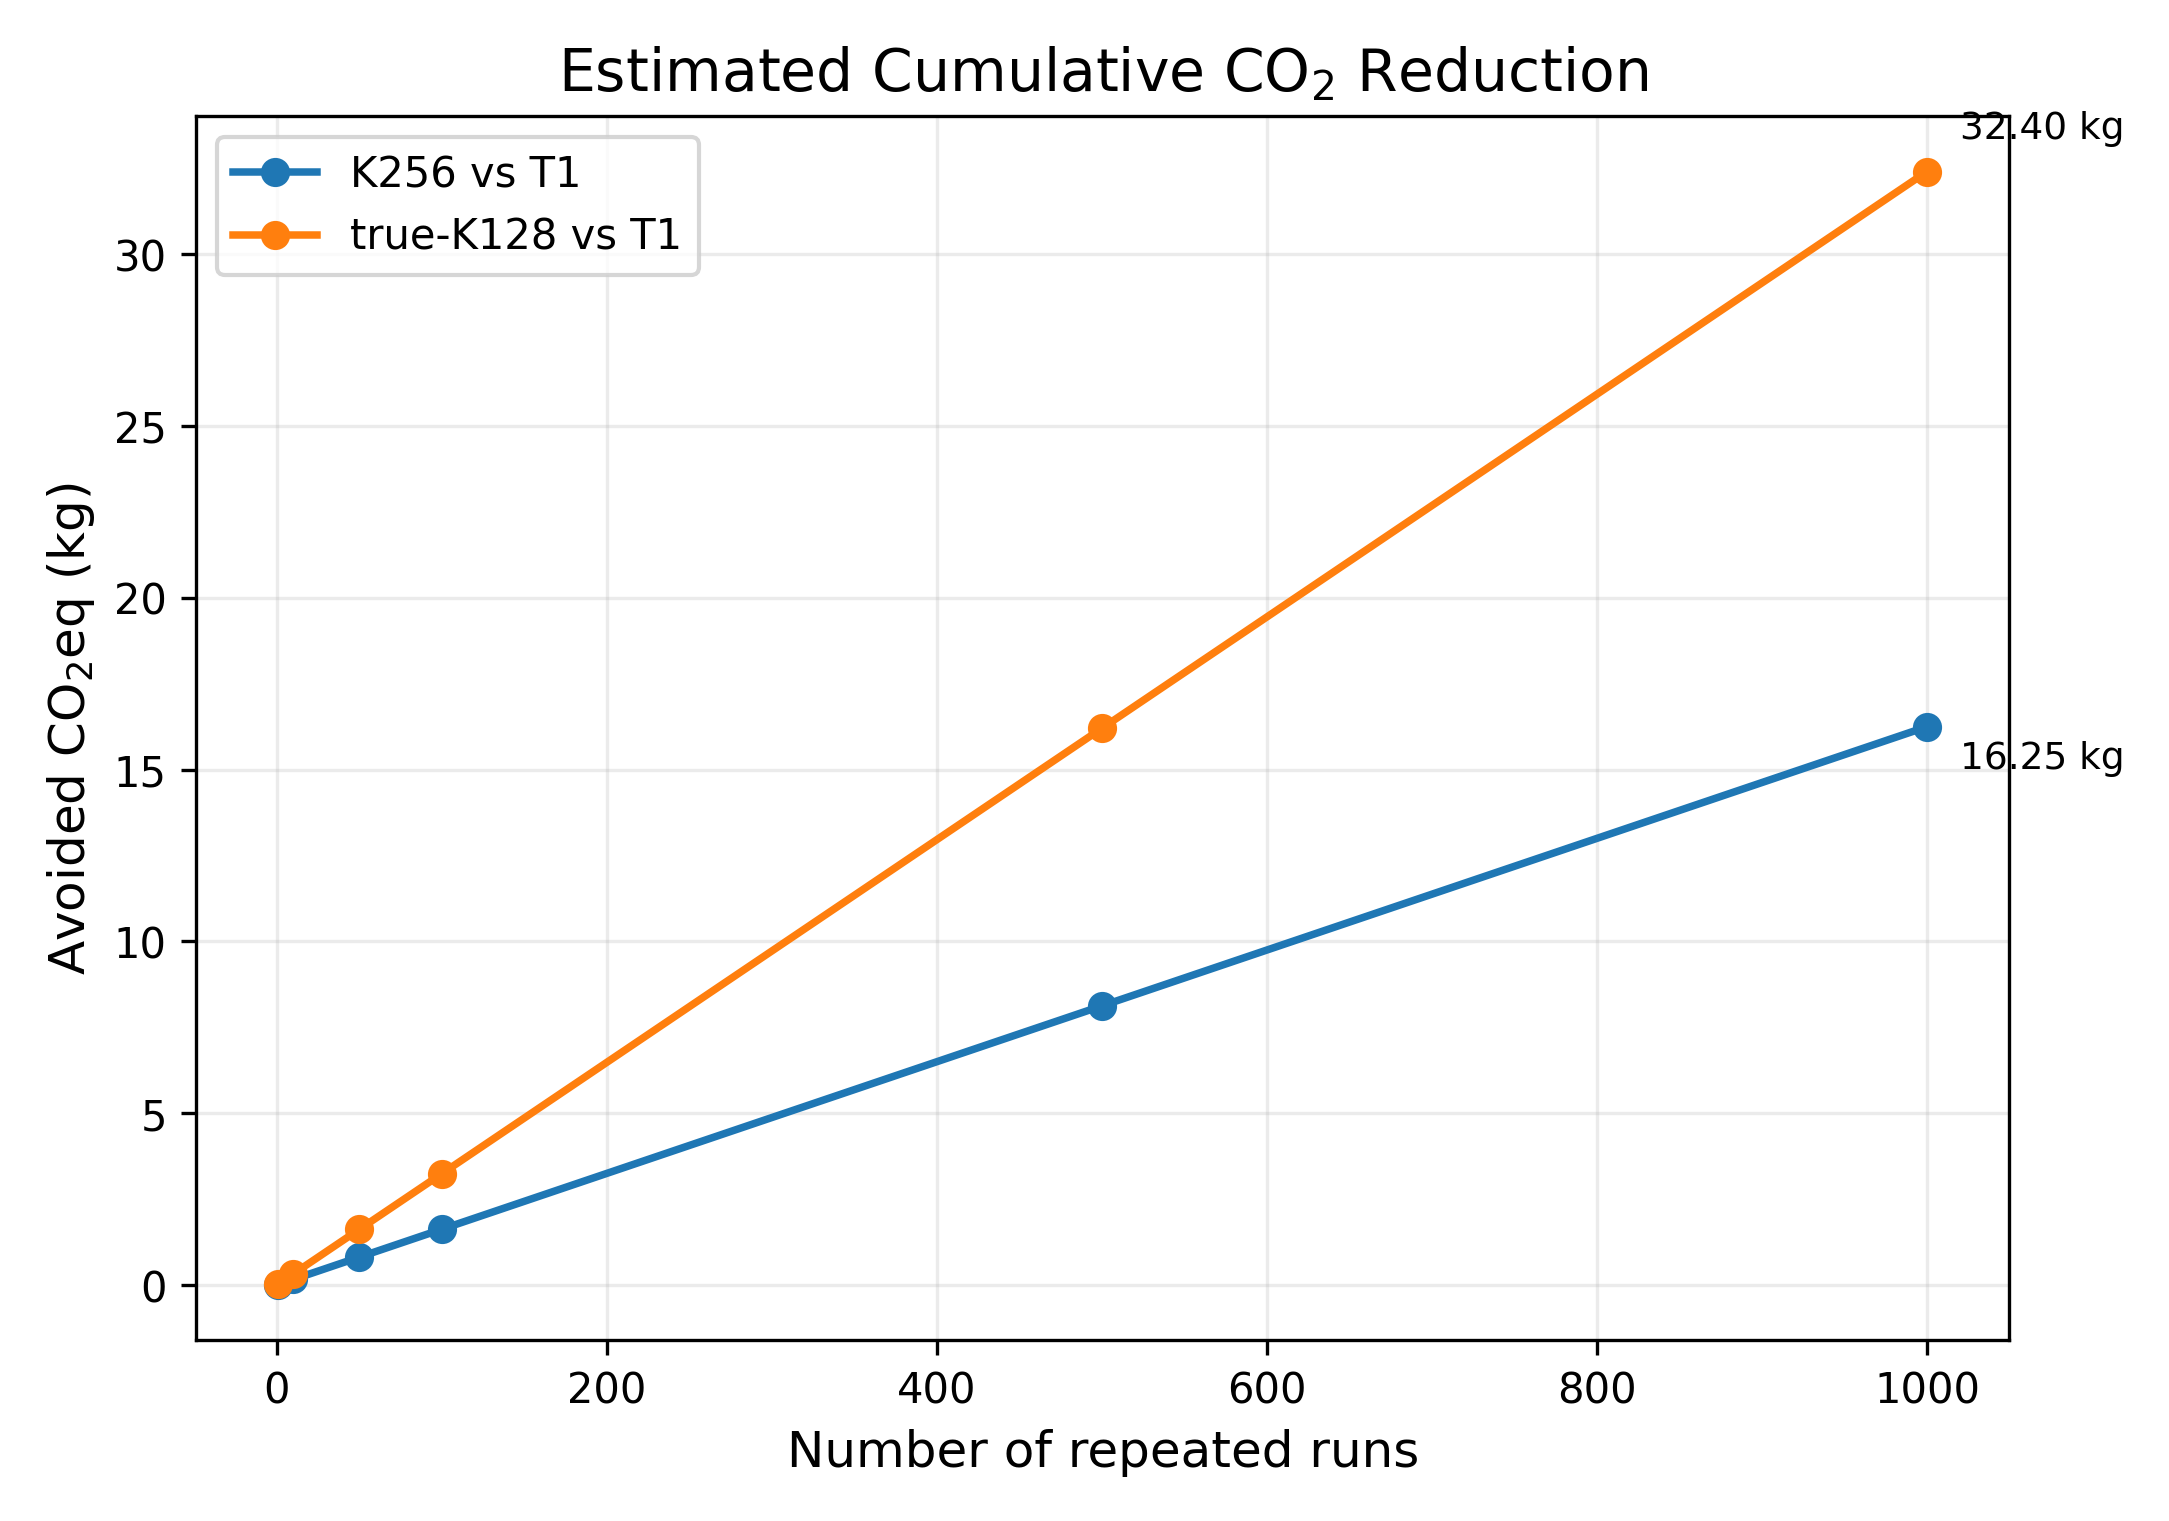
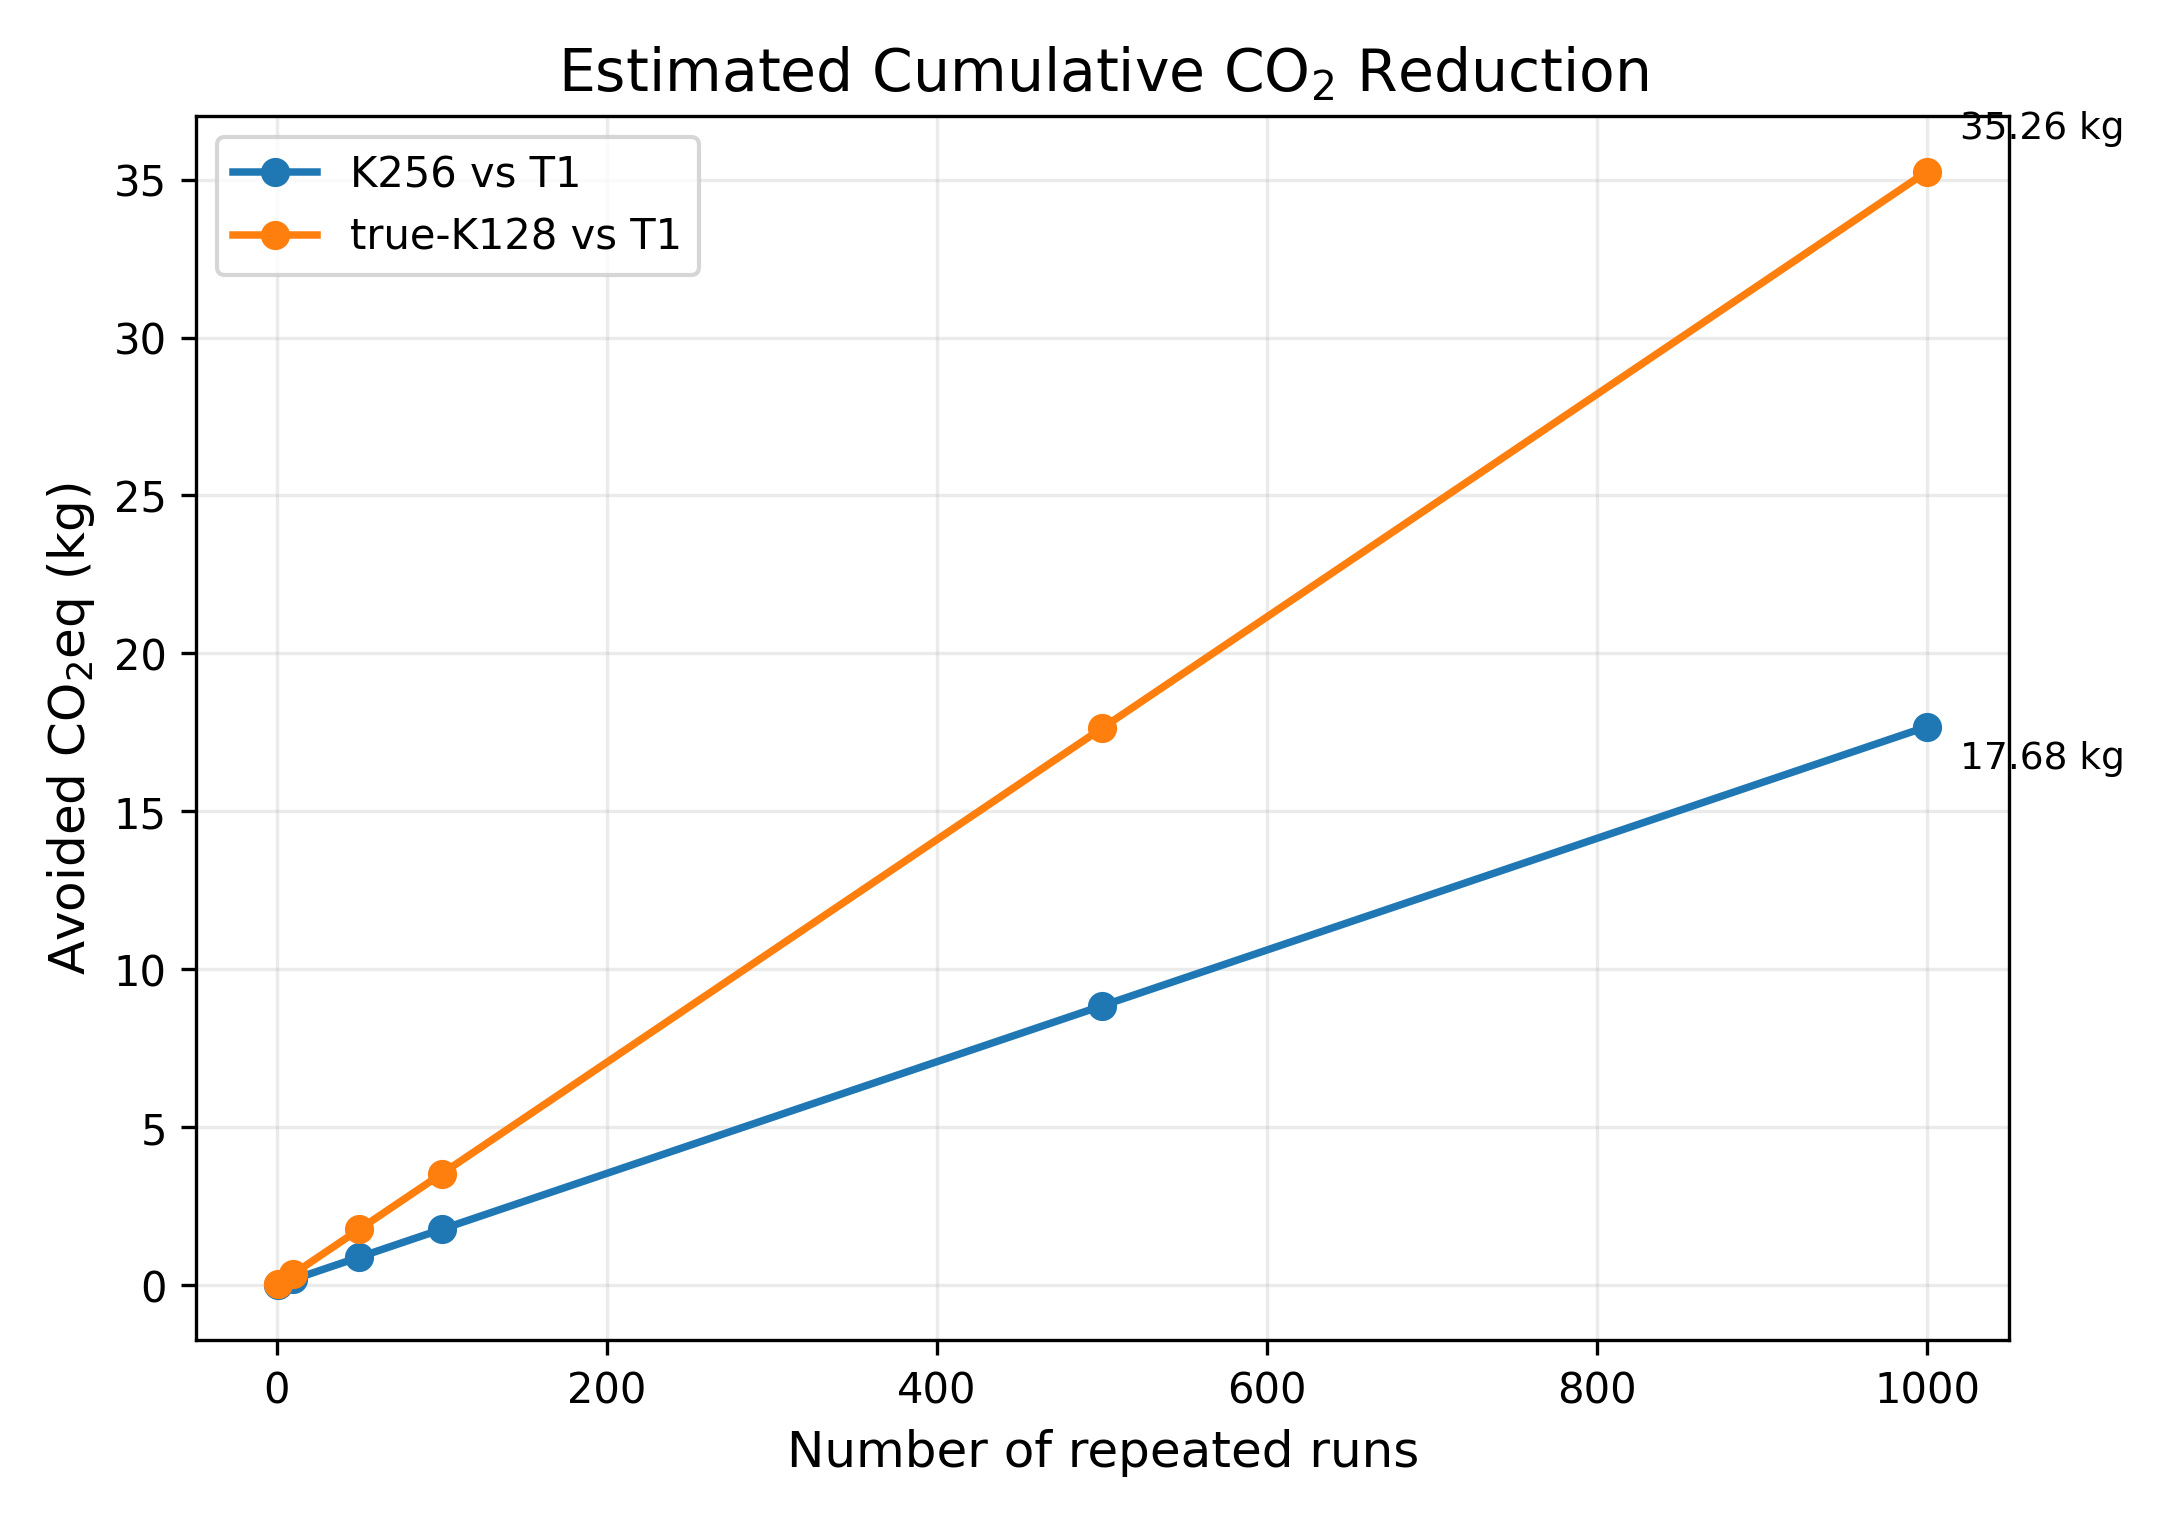
Refine release plots and correct public figure values

diff --git a/scripts/plots/fig2_pareto.py b/scripts/plots/fig2_pareto.py
@@ -4,29 +4,47 @@ from common import setup, save
 setup()
 
 data = [
-    {"name": "T1",        "energy": 0.682982, "macro": 47.1000},
-    {"name": "K256",      "energy": 0.644048, "macro": 46.6894},
-    {"name": "true-K128", "energy": 0.605340, "macro": 46.6057},
+    {"name": "T1",              "energy": 0.682982, "macro": 47.1000, "estimated": False},
+    {"name": "K256",            "energy": 0.644048, "macro": 46.6894, "estimated": False},
+    {"name": "true-K128",       "energy": 0.605340, "macro": 46.6057, "estimated": False},
+    {"name": "Full20K (est.)",  "energy": 1.902000, "macro": 43.2700, "estimated": True},
 ]
 
-# 수동 배치: 겹치지 않게
 offsets = {
-    "T1":        (8, 10),
-    "K256":      (8, -16),
-    "true-K128": (-70, -6),
+    "T1":             (8, 10),
+    "K256":           (8, -16),
+    "true-K128":      (8, 12),
+    "Full20K (est.)": (-105, 18),
 }
 
-fig, ax = plt.subplots(figsize=(7.4, 5.4))
+fig, ax = plt.subplots(figsize=(8.0, 5.5))
 
-xs = [d["energy"] for d in data]
-ys = [d["macro"] for d in data]
+measured = [d for d in data if not d["estimated"]]
+ax.plot(
+    [d["energy"] for d in measured],
+    [d["macro"] for d in measured],
+    marker="o",
+    linewidth=1.6,
+    label="Measured E2E energy",
+)
 
-ax.plot(xs, ys, marker="o", linewidth=1.6)
+full = next(d for d in data if d["estimated"])
+ax.scatter(
+    [full["energy"]],
+    [full["macro"]],
+    marker="s",
+    s=55,
+    label="Estimated Full20K energy",
+)
 
 for d in data:
     dx, dy = offsets[d["name"]]
+    energy_label = f'{d["energy"]:.3f} kWh'
+    if d["estimated"]:
+        energy_label += " (estimated)"
+
     ax.annotate(
-        f'{d["name"]}\nMacro={d["macro"]:.2f}\n{d["energy"]:.3f} kWh',
+        f'{d["name"]}\nMacro={d["macro"]:.2f}\n{energy_label}',
         (d["energy"], d["macro"]),
         xytext=(dx, dy),
         textcoords="offset points",
@@ -34,23 +52,25 @@ for d in data:
         ha="left",
         va="center",
         bbox=dict(boxstyle="round,pad=0.25", fc="white", ec="black", lw=0.8),
-        arrowprops=dict(arrowstyle="-", lw=0.8)
+        arrowprops=dict(arrowstyle="-", lw=0.8),
     )
 
 ax.axhline(46.6, linestyle="--", linewidth=1.0)
 ax.text(
-    min(xs) + 0.002, 46.6 + 0.015,
-    "Target macro = 46.6",
-    fontsize=9, va="bottom"
+    0.575, 46.63,
+    "Utility threshold = 46.60",
+    fontsize=9,
+    va="bottom",
 )
 
 ax.set_xlabel("End-to-End GPU Energy (kWh)")
 ax.set_ylabel("Macro Score")
 ax.set_title("Performance–Energy Trade-off")
 ax.grid(True, alpha=0.25)
+ax.legend(frameon=True)
 
-ax.set_xlim(0.595, 0.695)
-ax.set_ylim(46.50, 47.18)
+ax.set_xlim(0.55, 2.05)
+ax.set_ylim(42.8, 47.4)
 
-save(fig, "report_figures/out/figure2_pareto.png")
-print("Saved: report_figures/out/figure2_pareto.png")
+save(fig, "figs/performance_energy_pareto.png")
+print("Saved: figs/performance_energy_pareto.png")

diff --git a/scripts/plots/fig5_depth_tradeoff.py b/scripts/plots/fig5_depth_tradeoff.py
@@ -6,8 +6,8 @@ setup()
 data = [
     {"name": "K32",  "token_reduction": 66.82, "t1_overlap": 14.10},
     {"name": "K64",  "token_reduction": 59.42, "t1_overlap": 35.75},
-    {"name": "K128", "token_reduction": 46.92, "t1_overlap": 66.05},
-    {"name": "K256", "token_reduction": 29.14, "t1_overlap": 81.40},
+    {"name": "K128", "token_reduction": 46.92, "t1_overlap": 62.55},
+    {"name": "K256", "token_reduction": 29.14, "t1_overlap": 79.05},
 ]
 
 fig, ax = plt.subplots(figsize=(7.8, 5.6))
@@ -28,12 +28,12 @@ for d in data:
     )
 
 ax.set_xlabel("Scoring Token Reduction (%)")
-ax.set_ylabel("T1 Selection Overlap (%)")
+ax.set_ylabel("Raw-prefix T1 Selection Overlap (%)")
 ax.set_title("Prefix Depth Trade-off")
 ax.grid(True, alpha=0.3)
 
 ax.set_xlim(25, 70)
 ax.set_ylim(0, 90)
 
-save(fig, "report_figures/out/figure5_depth_tradeoff.png")
-print("Saved: report_figures/out/figure5_depth_tradeoff.png")
+save(fig, "figs/prefix_depth_tradeoff.png")
+print("Saved: figs/prefix_depth_tradeoff.png")

diff --git a/scripts/plots/fig4_sue.py b/scripts/plots/fig4_sue.py
@@ -9,6 +9,7 @@ data = {
     "true-K128": {"macro": 46.6057, "energy": 0.605340},
 }
 
+base_macro = 38.625
 t1_macro = data["T1"]["macro"]
 t1_energy = data["T1"]["energy"]
 
@@ -16,7 +17,7 @@ labels = list(data.keys())
 values = []
 for name in labels:
     d = data[name]
-    sue = (d["macro"] / t1_macro) / (d["energy"] / t1_energy)
+    sue = ((d["macro"] - base_macro) / (t1_macro - base_macro)) / (d["energy"] / t1_energy)
     values.append(sue)
 
 fig, ax = plt.subplots(figsize=(8.2, 5.4))
@@ -64,5 +65,5 @@ ax.grid(True, axis="y", alpha=0.25)
 ax.set_xlim(-0.6, 2.6)
 ax.set_ylim(min(values) - 0.015, max(values) + 0.04)
 
-save(fig, "report_figures/out/figure4_sue.png")
-print("Saved: report_figures/out/figure4_sue.png")
+save(fig, "figs/sue.png")
+print("Saved: figs/sue.png")

diff --git a/scripts/plots/fig6_co2_scenario.py b/scripts/plots/fig6_co2_scenario.py
@@ -3,7 +3,7 @@ from common import setup, save
 
 setup()
 
-EMISSION_FACTOR = 0.4173  # kgCO2eq / kWh
+EMISSION_FACTOR = 0.4541  # kgCO2eq / kWh
 
 t1_energy = 0.682982
 k256_energy = 0.644048
@@ -43,5 +43,5 @@ ax.set_title("Estimated Cumulative CO$_2$ Reduction")
 ax.grid(True, alpha=0.25)
 ax.legend(frameon=True)
 
-save(fig, "report_figures/out/figure6_co2_scenario.png")
-print("Saved: report_figures/out/figure6_co2_scenario.png")
+save(fig, "figs/co2_scaleout_scenario.png")
+print("Saved: figs/co2_scaleout_scenario.png")
